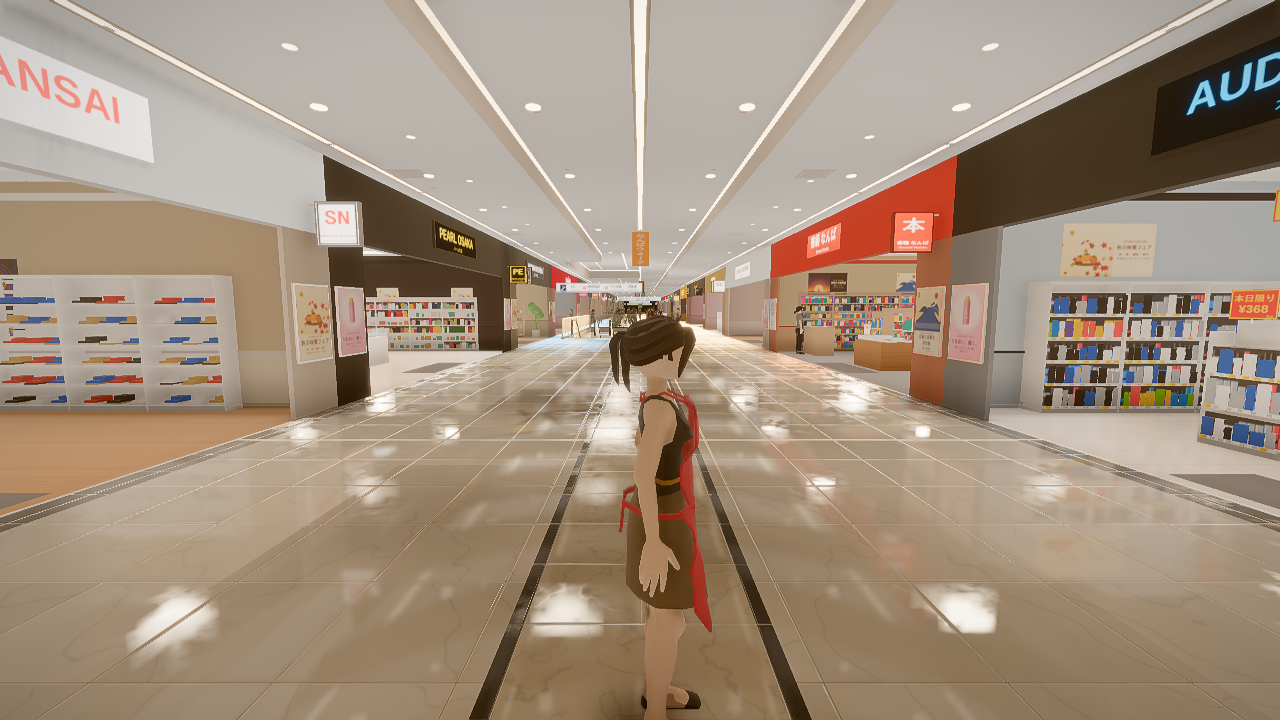
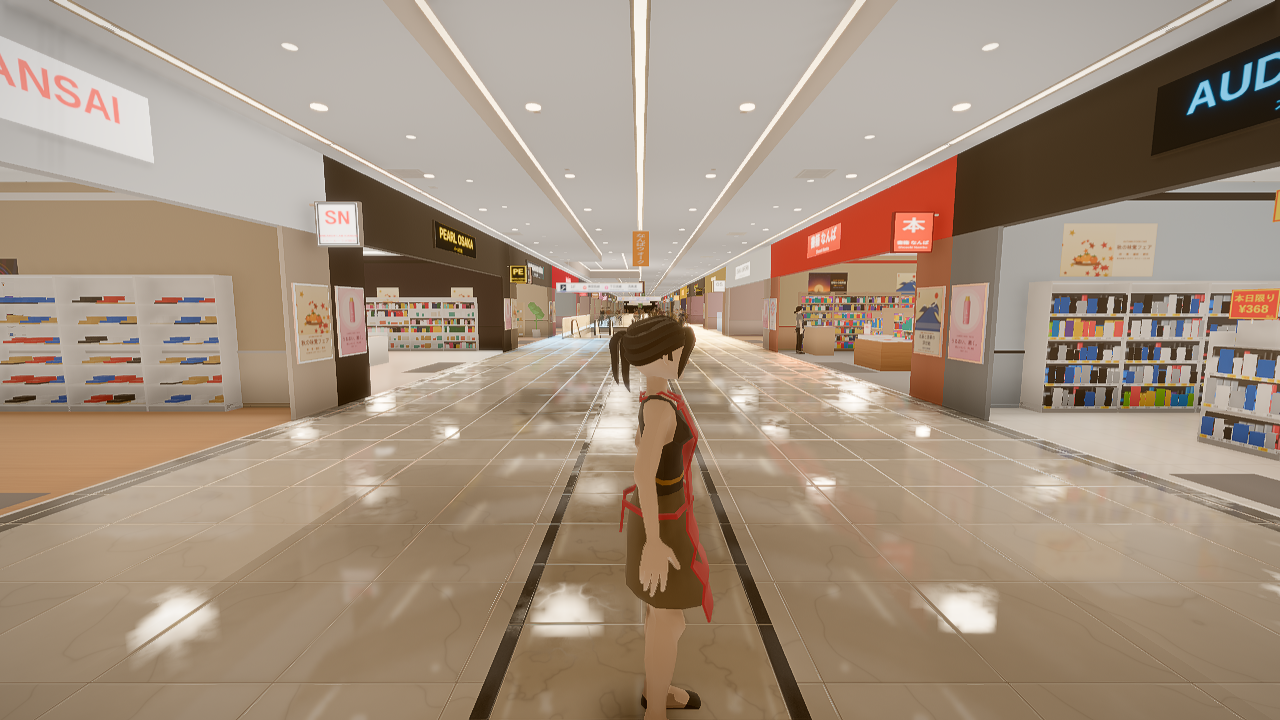
Lost in Namba v8: Maps realism, Lodestone map + header + clear calibration + reveal, louder PA ducks, gate prompt fix, NPC door boarding, single loading title, real aprons
Claude-Session: https://claude.ai/code/session_01DFPWmVZjWP3RarZo2JLFjj

diff --git a/namba-demo/js/npc/humans.js b/namba-demo/js/npc/humans.js
@@ -611,6 +611,8 @@ export class HumanLibrary {
           if (j > 0 && j < ny) z = Math.max(z, Math.min(zs[j - 1][i], zs[j + 1][i]) - 0.008);
           zs[j][i] = z;
         }
+        // cloth is convex: no point of a row may sit far behind that row's foremost central sample (missed centre vertices)
+        for (let j = 0; j <= ny; j++) { const row = zs[j]; let zc = -Infinity; for (let i = 0; i <= nx; i++) if (Math.abs(i / nx - 0.5) <= 0.26) zc = Math.max(zc, row[i]); for (let i = 0; i <= nx; i++) { const e = (i / nx - 0.5) * 2; row[i] = Math.max(row[i], zc - 0.035 * e * e); } }
         for (let j = 0; j <= ny; j++) { const row = zs[j], v = j / ny; zs[j] = row.map((z, i) => (row[Math.max(0, i - 1)] + 2 * z + row[Math.min(nx, i + 1)]) / 4 + offA + (offB - offA) * v); }
         for (let k = 0; k < pp.count; k++) {
           const u = pp.getX(k) + 0.5, v = 0.5 - pp.getY(k), side = Math.sign(pp.getZ(k));
@@ -622,7 +624,7 @@ export class HumanLibrary {
         return zs;
       };
       const zb = panel('Chest', yTop, yW + 0.03, 0.105, 0.155, 0.016, 0.02, chest.z + chestZ, 4, 3);        // bib
-      const zk = panel('Hips', yW + 0.005, yHem, 0.168, 0.205, 0.022, 0.03, hips.z + hipZ, 6, 4);            // skirt (flared)
+      const zk = panel('Hips', yW + 0.005, yHem, 0.168, 0.205, 0.022, 0.03, hips.z + hipZ, 8, 6);            // skirt (flared)
       // waist tie: a band across the skirt top, side ties round the flanks to a back bow
       const bw = (x, y, o) => v3(x, y, fz(x, y, hips.z + hipZ) + o);
       const wb = yW - 0.012;

diff --git a/CLAUDE.md b/CLAUDE.md
@@ -50,7 +50,7 @@ Zack explicitly asked that this working style carry over.
 
 ## Status at handoff (update at the end of each session)
 
-- **Live:** v7.4.1: PostHog journey analytics (`js/analytics.js`): EU, cookieless, off locally and in tests unless `?track`; `namba_*` story-beat events, `ref` from `?r=`, real-GPU `namba_perf` samples; the Vercel snippet is removed. v7.4.1 moved it to Zack's own PostHog org for experiments (EU, org `01a10605-…`). The PostHog connector only had Kumiau access, so the funnel in the new project is built by hand (or reconnect the connector with the new org). The old Kumiau insight `ZYuN5oFD` is stale. Verify with `Q='…&track' walk.mjs` or `TRACK=1 mouseshot.mjs`; `tools/phroute.mjs` forwards headless traffic through curl. Before that, v7.3: end card leads with **On track** (% of walking seconds that got you closer by the direct or Aya's canyon way, plus time off route; one yardstick for both phases; replaces arrow catch-up). Also a mouse-mode chip ("Click to look around" when the camera isn't steering, e.g. after Esc→Esc, which can't re-lock; "Cursor is on your phone" with the phone up), a pause-menu Esc explainer with backdrop click to resume, and the contact cards in the pause menu. Verify with `tools/mouseshot.mjs` and `walk.mjs` with `&wander` (25 s lost → 0:26 off, 83%). Before that, v7.2 (fair 4-row end-card stats; buttons above the contact cards). Before that, v7 (gate E with the phone up, the tutorial on replays, the FPS overlay, louder platform PA). v7.1 adds the NPC gate-tap gesture and cache-busting (`tools/stamp.mjs`, run by deploy.sh). Pending: Zack's own Vercel project (Web Analytics snippet already in index.html). v6.1 leftovers: `notes/v6-critique.md`.
+- **Live:** v8 (critic 7.5/10; `notes/v8-critique.md`). Maps realism (stale/coarse/fix states, Before error about 33 m, 26% wrong floor). Lodestone full-app floor map plus a shared nav header, a staged calibration screen, and a reveal hero beat (the 3D stack flies in, then settles; chips declutter). The IC prompt is off escalators. Deeper PA ducks (the Japanese voice is not yet heard by Zack). NPCs board only at real doors while they are open. One "Lost in Namba" loading screen. Real staff aprons (near LOD). **Next: v9 progression** (`notes/v9-progression.md`: Aya waits for replies, gates beats on whereabouts and patience). PostHog funnel `ip8t0RHX` lives in Zack's own org (project 293273); the connector now has access. First real-GPU sample: 46 fps, p95 29 ms (Apple GPU, medium). Before that, v7.4.1: PostHog journey analytics (`js/analytics.js`): EU, cookieless, off locally and in tests unless `?track`; `namba_*` story-beat events, `ref` from `?r=`, real-GPU `namba_perf` samples; the Vercel snippet is removed. v7.4.1 moved it to Zack's own PostHog org for experiments (EU, org `01a10605-…`). The PostHog connector only had Kumiau access, so the funnel in the new project is built by hand (or reconnect the connector with the new org). The old Kumiau insight `ZYuN5oFD` is stale. Verify with `Q='…&track' walk.mjs` or `TRACK=1 mouseshot.mjs`; `tools/phroute.mjs` forwards headless traffic through curl. Before that, v7.3: end card leads with **On track** (% of walking seconds that got you closer by the direct or Aya's canyon way, plus time off route; one yardstick for both phases; replaces arrow catch-up). Also a mouse-mode chip ("Click to look around" when the camera isn't steering, e.g. after Esc→Esc, which can't re-lock; "Cursor is on your phone" with the phone up), a pause-menu Esc explainer with backdrop click to resume, and the contact cards in the pause menu. Verify with `tools/mouseshot.mjs` and `walk.mjs` with `&wander` (25 s lost → 0:26 off, 83%). Before that, v7.2 (fair 4-row end-card stats; buttons above the contact cards). Before that, v7 (gate E with the phone up, the tutorial on replays, the FPS overlay, louder platform PA). v7.1 adds the NPC gate-tap gesture and cache-busting (`tools/stamp.mjs`, run by deploy.sh). Pending: Zack's own Vercel project (Web Analytics snippet already in index.html). v6.1 leftovers: `notes/v6-critique.md`.
 - **Never measured:** real-GPU frame rate and crowd density. Ask Zack after he plays.
 - **Full game:** paused since the demo pivot. Its scores were architecture 4/10, rendering 4.5, sound 5.5, game 5,
   crowd-visual 3.5.

diff --git a/namba-demo/notes/v8-apron.md b/namba-demo/notes/v8-apron.md
@@ -1,0 +1,17 @@
+# v8 apron (staff "weird blocks")
+
+**Cause.** Near-LOD staff apron (`BIT.APRON`, `js/npc/humans.js` `_accessories`) was two rigid boxes at fixed offsets (0.38x0.6 hips slab, 0.27x0.3 chest slab). They ignore the body surface, so in profile they float off as cardboard slabs. The far/instanced LOD (`humanGeo.js` `g.panel`) was already a shaped panel and is unchanged.
+
+**Fix (humans.js only).** The apron is rebuilt like the backpack, measuring the surface with `body.front/back/top`:
+- bib: tapered slab (0.21 wide at the collarbone, 0.31 at the waist) skinned to `Chest`;
+- skirt: flared slab (0.34 to 0.41 wide) from the waist to mid-thigh, skinned to `Hips`;
+- each slab is a subdivided box whose grid points are pushed onto the sampled front surface (dent fill, convexity clamp, 1.6-3 cm stand-off, a little more at the hem);
+- neck strap over the trapezius (front, over, behind the neck), waist band, side ties round to a back bow with two tails;
+- colour logic untouched (`A.acc2` / APRON palettes); about 400-500 tris.
+
+**Screenshots** (`tools/apronshot.mjs <prefix>`, new; `ROWS=f_idle_front,...` limits the views, `BEFORE=1` serves the git HEAD humans.js):
+- before: `notes/v8-shots/apron/before_f_idle_front.png`, `before_f_idle_profile.png`, `before_m_idle_profile.png`, `before_f_walk_profile.png`, `before_far_pair.png`
+- after (final): `notes/v8-shots/apron/after_*.png`
+- earlier iteration (before the dent fix; same design): `notes/v8-shots/apron/r1/`
+
+**Known roughness.** The surface is sampled from vertices, so on the dress variant a patch of dress can poke through the skirt; the convexity clamp is the latest attempt at that (see final after_ front shot). The skirt is rigid on Hips, so in walk its hem swings a little away from the thighs.
